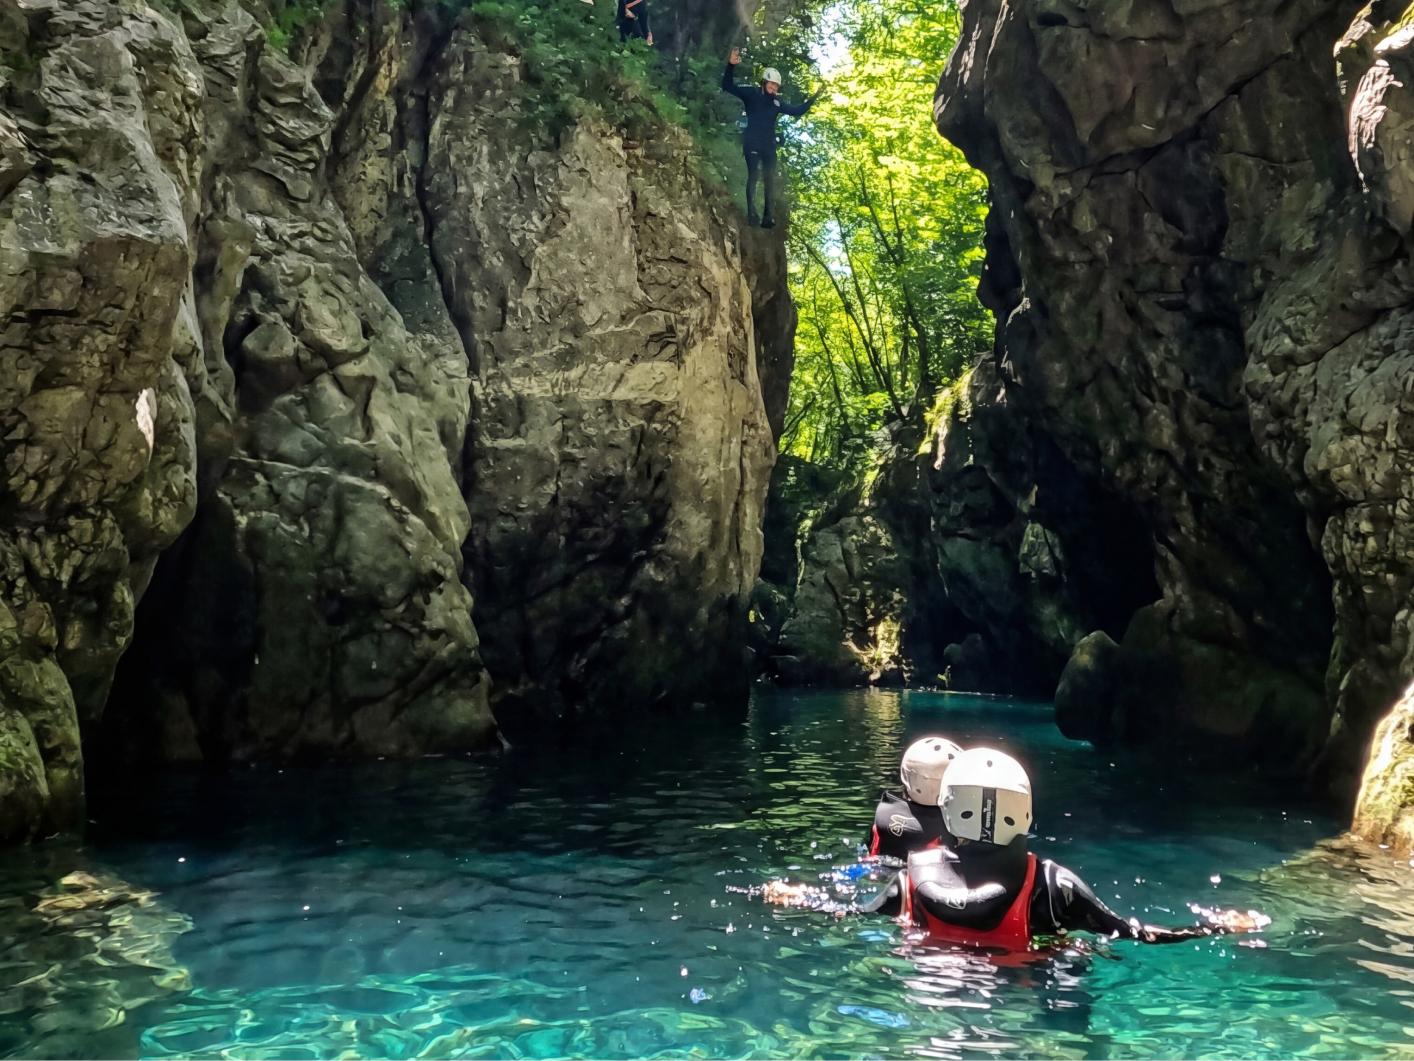
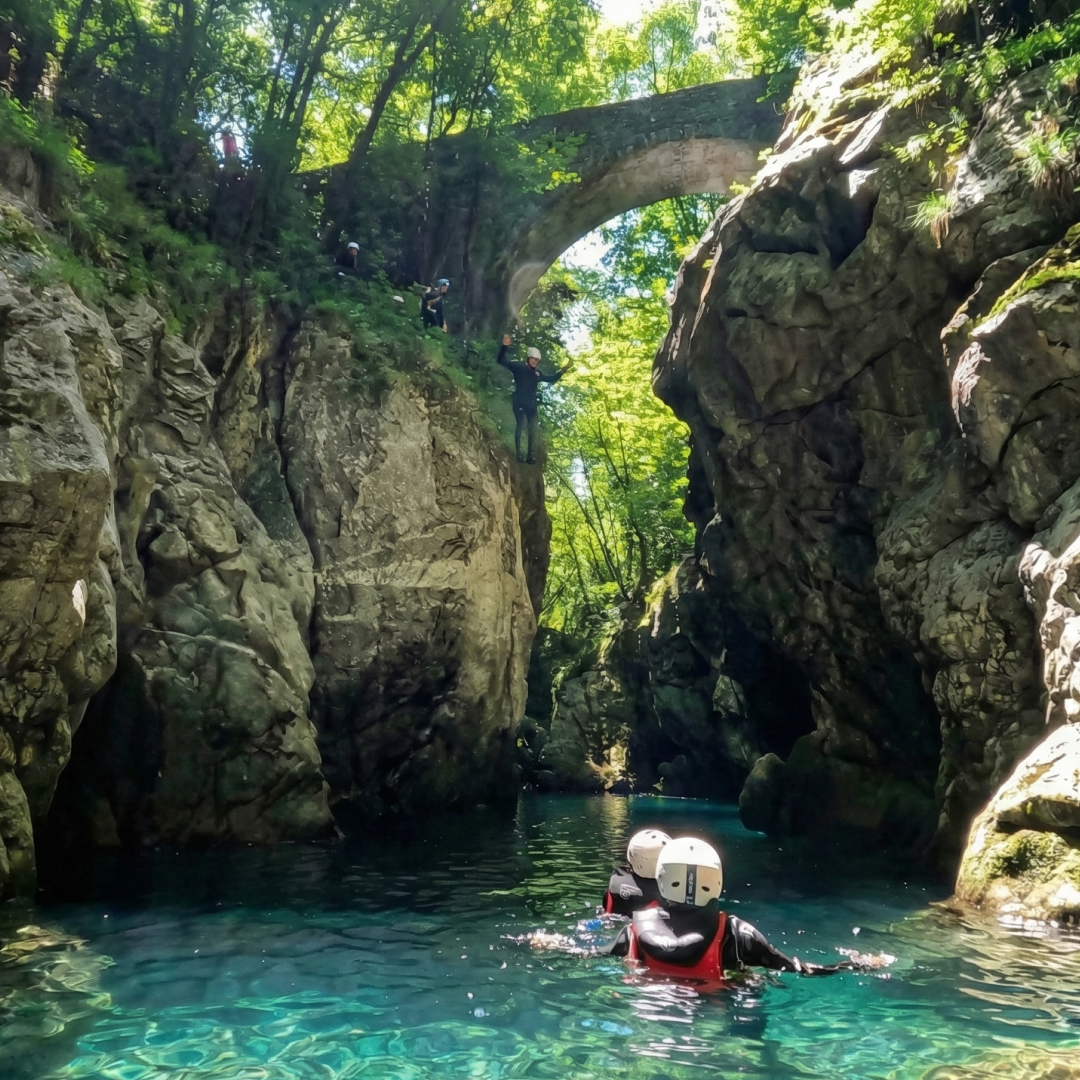
Add files via upload

diff --git a/index.html b/index.html
@@ -263,9 +263,11 @@
     .activities { background: var(--moss); }
     .act-grid { display: grid; grid-template-columns: repeat(3, 1fr); gap: 2rem; margin-top: 4rem; }
     .act-card {
-      padding: 2rem; border: 1px solid rgba(242,237,230,0.1);
+      border: 1px solid rgba(242,237,230,0.1);
       transition: all 0.3s; position: relative; overflow: hidden;
     }
+    .act-photo { width:100%; aspect-ratio:4/3; object-fit:cover; display:block; }
+    .act-body { padding: 2rem; }
     .act-card:hover { border-color: var(--gold); background: rgba(184,148,90,0.05); }
     .act-name {
       font-family: 'Cormorant Garamond', serif;
@@ -653,8 +655,8 @@
       <span data-lang="en">The ancient forge</span>
     </h2>
     <p class="section-body">
-      <span data-lang="it">Abbiamo scelto di non conservarla come luogo intoccabile, ma di usarla come spazio dove le persone possono venire, stare insieme e condividere la propria esperienza. Oggi ospita sessioni di yoga, degustazioni di vino, cene condivise, workshop d'arte. L'atmosfera del luogo rende ogni esperienza più profonda e immersiva.</span>
-      <span data-lang="en">We chose not to preserve it as an untouchable place, but to use it as a space where people can come, spend time together and share their experience. Today it hosts yoga sessions, wine tastings, shared dinners, art workshops. The atmosphere of the place makes every experience feel deeper and more immersive.</span>
+      <span data-lang="it">Oltre al mulino con le macine, lo spazio più interessante è la bottega del fabbro. Abbiamo scelto di non conservarla come luogo intoccabile, ma di usarla come spazio dove le persone possono venire, stare insieme e condividere la propria esperienza. Oggi ospita sessioni di yoga, degustazioni di vino, cene condivise, workshop d'arte.</span>
+      <span data-lang="en">Beyond the mill with its millstones, the most interesting space is the blacksmith's workshop. We chose not to preserve it as an untouchable place, but to use it as a space where people can come, spend time together and share their experience. Today it hosts yoga sessions, wine tastings, shared dinners, art workshops.</span>
     </p>
     <div class="forge-events">
       <div class="forge-event"><span class="forge-event-icon">🧘</span>Yoga & <span data-lang="it" class="inline">meditazione</span><span data-lang="en" class="inline">meditation</span></div>
@@ -689,6 +691,8 @@
   </p>
   <div class="act-grid reveal">
     <div class="act-card">
+      <img src="rafting.png" alt="Rafting" class="act-photo" />
+      <div class="act-body">
       <div class="act-name">Rafting</div>
       <div class="act-desc">
         <span data-lang="it">Discesa del torrente Lima in gommone. Adatto a famiglie e gruppi, emozione garantita.</span>
@@ -697,8 +701,11 @@
       <div class="act-price">€49</div>
       <div class="act-price-child"><span data-lang="it" class="inline">Bambini fino 12 anni: €39</span><span data-lang="en" class="inline">Children up to 12: €39</span></div>
       <a href="https://www.firenzerafting.it/rafting-lima/" target="_blank" class="act-link"><span data-lang="it" class="inline">Scopri e prenota →</span><span data-lang="en" class="inline">Info & booking →</span></a>
+      </div>
     </div>
     <div class="act-card">
+      <img src="canyoning.png" alt="Canyoning" class="act-photo" />
+      <div class="act-body">
       <div class="act-name">Canyoning</div>
       <div class="act-desc">
         <span data-lang="it">Esplora gole e cascate tra le rocce della Toscana. Un'avventura nel cuore della natura selvaggia.</span>
@@ -707,8 +714,11 @@
       <div class="act-price">€55</div>
       <div class="act-price-child"><span data-lang="it" class="inline">Bambini fino 12 anni: €45</span><span data-lang="en" class="inline">Children up to 12: €45</span></div>
       <a href="https://www.firenzerafting.it/canyoning-lima/" target="_blank" class="act-link"><span data-lang="it" class="inline">Scopri e prenota →</span><span data-lang="en" class="inline">Info & booking →</span></a>
+      </div>
     </div>
     <div class="act-card">
+      <img src="packrafting.png" alt="Packrafting" class="act-photo" />
+      <div class="act-body">
       <div class="act-name">Packrafting</div>
       <div class="act-desc">
         <span data-lang="it">Kayak gonfiabile ultraleggero per esplorare il fiume in modo autonomo. Per 16+ anni.</span>
@@ -717,6 +727,7 @@
       <div class="act-price">€65</div>
       <div class="act-price-child"><span data-lang="it" class="inline">Non disponibile sotto i 16 anni</span><span data-lang="en" class="inline">Not available under 16</span></div>
       <a href="https://www.firenzerafting.it/packrafting-lima/" target="_blank" class="act-link"><span data-lang="it" class="inline">Scopri e prenota →</span><span data-lang="en" class="inline">Info & booking →</span></a>
+      </div>
     </div>
   </div>
 </section>
@@ -895,8 +906,8 @@
     <div id="panel-commerciale" style="display:none;">
 
       <div style="padding:1rem 1.2rem; background:rgba(184,148,90,0.08); border-left:2px solid #b8945a; margin-bottom:2rem; font-size:0.78rem; color:rgba(242,237,230,0.55); line-height:1.7;">
-        <span data-lang="it" class="inline">Tariffe per uso professionale: ritiri aziendali, team building, shooting, produzioni etc.</span>
-        <span data-lang="en" class="inline">Rates for professional use: corporate retreats, team building, photo shoots, productions etc.</span>
+        <span data-lang="it" class="inline">Tariffe per uso professionale: ritiri aziendali, team building, shooting, produzioni etc. Disponibile anche per 1 notte.</span>
+        <span data-lang="en" class="inline">Rates for professional use: corporate retreats, team building, photo shoots, productions etc. Available from 1 night.</span>
       </div>
 
       <div style="display:grid; grid-template-columns:repeat(4,1fr); gap:1px; margin-bottom:2rem;">
@@ -1012,10 +1023,7 @@
     <span data-lang="it">Yoga, vino, musica, spiritualità.<br><em style="font-style:italic; color:var(--sage);">Scopri gli eventi in programma.</em></span>
     <span data-lang="en">Yoga, wine, music, spirituality.<br><em style="font-style:italic; color:var(--sage);">Discover upcoming events.</em></span>
   </h2>
-  <p style="font-size:0.95rem; color:rgba(242,237,230,0.6); max-width:480px; margin:0 auto 2rem; line-height:1.8;">
-    <span data-lang="it">Dal cerchio di cacao nella forgia all'alba in kayak sul Lima. Iscriviti e ricevi solo gli eventi che ti interessano.</span>
-    <span data-lang="en">From a cacao circle in the forge to sunrise kayaking on the Lima. Subscribe and receive only the events that interest you.</span>
-  </p>
+
   <a href="eventi.html" style="display:inline-block; background:var(--gold); color:var(--forest); padding:0.9rem 2.5rem; font-family:'Jost',sans-serif; font-size:0.78rem; letter-spacing:0.2em; text-transform:uppercase; text-decoration:none; transition:background 0.3s;"
     onmouseover="this.style.background='#f2ede6'" onmouseout="this.style.background='#b8945a'">
     <span data-lang="it" class="inline">Vedi tutti gli eventi →</span>
@@ -1160,8 +1168,8 @@ var commNights = 2;
 var commPrices = {
   small:  { 1: 265, '2-3': 220, '4+': 190, min: 1 },
   medium: { 1: 320, '2-3': 265, '4+': 225, min: 1 },
-  large:  { 1: null,'2-3': 385, '4+': 340, min: 2 },
-  all:    { 1: null,'2-3': 660, '4+': 580, min: 2 }
+  large:  { 1: 500, '2-3': 385, '4+': 340, min: 1 },
+  all:    { 1: 900, '2-3': 660, '4+': 580, min: 1 }
 };
 
 function getCommRate(apt, nights) {
